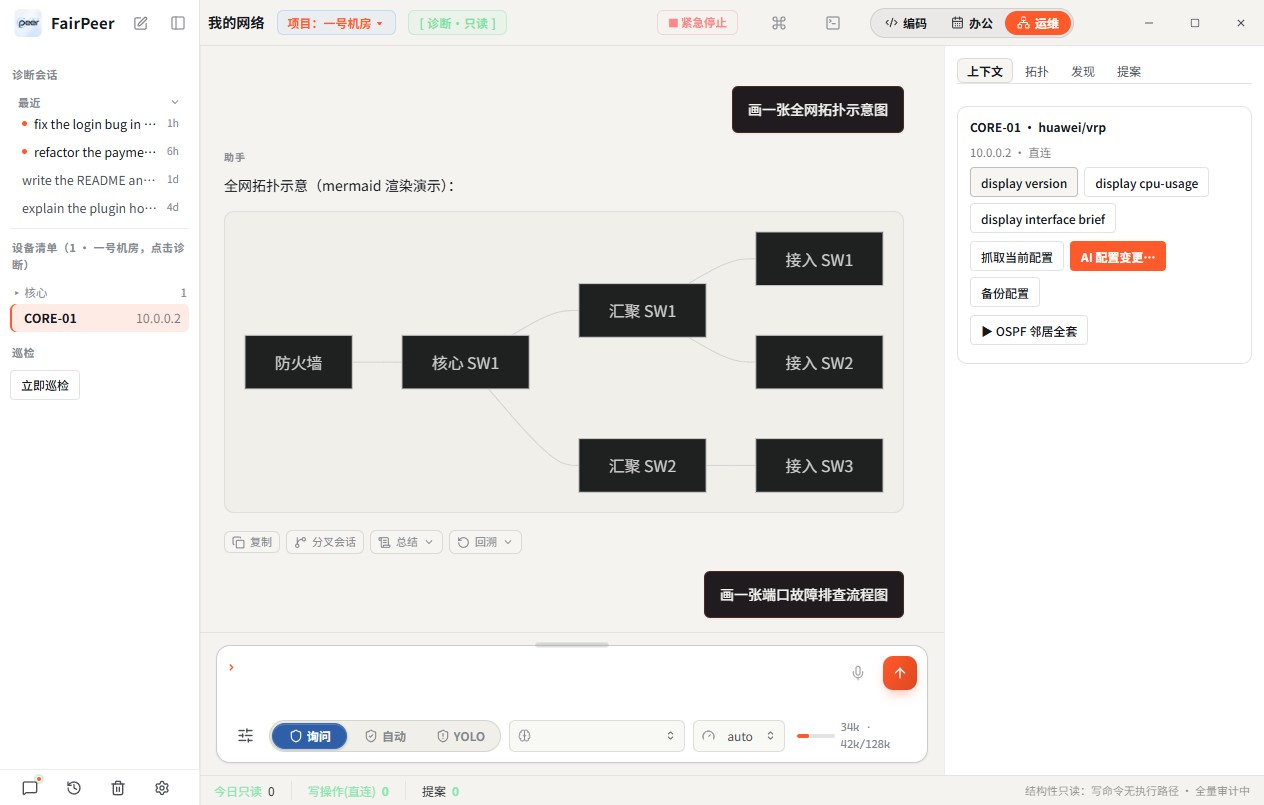
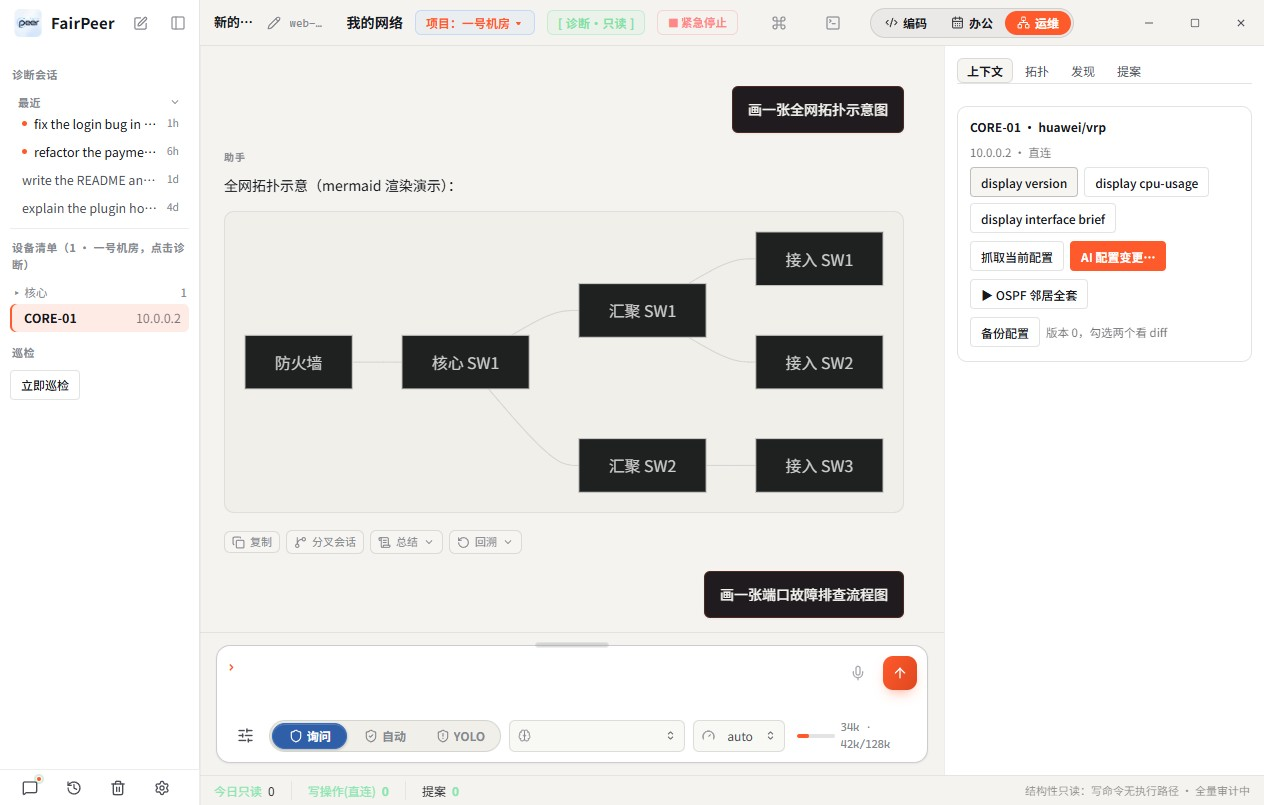
fix(netdev-ui): 备份后版本列表自刷新 + 探针补备份 diff/简报链路断言
- 探针抓到真 bug：点「备份配置」后 BackupHistory 不刷新（仅挂载时加载）
  → 备份按钮收进 BackupHistory 组件，运行后自 load()；顺带空态也显示按钮
- ndvshot: 备份流（备份→勾两版→对比→断言着色 diff 行）+ 简报流
  （重载→运维→生成→断言 .ndv__md 渲染）；dock 内按钮改 JS 派发点击
  （卡片变长后 chromedp 可见性等待会死等）；总预算 300s
- 证据：ndv-7（5 条着色 diff 行）/ndv-8（Markdown 简报）视觉核对通过

Changed region(s): [[0.1543, 0.0, 0.4011, 0.0621], [0.7714, 0.3416, 0.9256, 0.4348], [0.432, 0.0, 0.4937, 0.0621]]

diff --git a/desktop/frontend/src/layouts/NetDevLayout.tsx b/desktop/frontend/src/layouts/NetDevLayout.tsx
@@ -287,19 +287,6 @@ export function NetDevLayout({
     }
   }, [reload]);
 
-  // Backup vault: snapshot via sealed read (backupBusy gates the card button).
-  const [backupBusy, setBackupBusy] = useState(false);
-  const runBackup = useCallback(async (device: string) => {
-    setBackupBusy(true);
-    try {
-      const vers = await app.NetDevRunBackup(device);
-      if (vers.length === 0) alert("备份失败：命令被拒绝或设备错误（详情见审计）");
-    } catch (e) {
-      setErr(String(e));
-    } finally {
-      setBackupBusy(false);
-    }
-  }, []);
 
   // Active project scope (site switcher in the title bar): null = 全部.
   const [project, setProject] = useState<NetDevProjectScope>(getActiveProject());
@@ -484,12 +471,6 @@ export function NetDevLayout({
                     onClick={() => onInsertComposer(`帮我在 ${selectedDevice.name}（${selectedDevice.address}）上完成以下变更：\n变更内容：\n（请先用只读命令确认现状，再用 netdev_propose 起草提案——写命令必须包含对应的回滚命令，不会直接执行，需我在提案中心批准。）`)}
                   >AI 配置变更…</span>
                 )}
-                <span
-                  className="btn btn--secondary btn--small"
-                  role="button"
-                  title="经密封路径读取 running-config，脱敏后存为版本；可与任意历史版本 diff。"
-                  onClick={() => void runBackup(selectedDevice.name)}
-                >{backupBusy ? "备份中…" : "备份配置"}</span>
               </div>
               {(settings?.presets ?? []).filter(p => (p.vendors ?? []).length === 0 || (p.vendors ?? []).includes(selectedDevice.vendor)).length > 0 && (
                 <div className="ndv__quick-cmds">
@@ -675,6 +656,7 @@ function BackupHistory({ device }: { device: string }) {
   const [pick, setPick] = useState<string[]>([]);
   const [diff, setDiff] = useState("");
   const [err, setErr] = useState("");
+  const [busy, setBusy] = useState(false);
   const load = useCallback(async () => {
     try {
       setVersions(await app.NetDevBackups(device));
@@ -686,7 +668,18 @@ function BackupHistory({ device }: { device: string }) {
     }
   }, [device]);
   useEffect(() => { void load(); }, [load]);
-  if (versions.length === 0 && !err) return null;
+  const runBackup = useCallback(async () => {
+    setBusy(true);
+    try {
+      const vers = await app.NetDevRunBackup(device);
+      if (vers.length === 0) alert("备份失败：命令被拒绝或设备错误（详情见审计）");
+      await load();
+    } catch (e) {
+      setErr(String(e));
+    } finally {
+      setBusy(false);
+    }
+  }, [device, load]);
   const toggle = (id: string) => {
     setPick(p => p.includes(id) ? p.filter(x => x !== id) : [...p, id].slice(-2));
     setDiff("");
@@ -702,7 +695,15 @@ function BackupHistory({ device }: { device: string }) {
   };
   return (
     <div style={{ marginTop: 8 }}>
-      <div className="ndv__meta" style={{ marginBottom: 2 }}>备份版本（{versions.length}，勾选两个看 diff）</div>
+      <div style={{ display: "flex", gap: 6, alignItems: "center", marginBottom: 4 }}>
+        <span
+          className="btn btn--secondary btn--small"
+          role="button"
+          title="经密封路径读取 running-config，脱敏后存为版本；可与任意历史版本 diff。"
+          onClick={() => void runBackup()}
+        >{busy ? "备份中…" : "备份配置"}</span>
+        <span className="ndv__meta" style={{ marginBottom: 0 }}>版本 {versions.length}，勾选两个看 diff</span>
+      </div>
       {err && <div className="ndv__meta" style={{ color: "#ff8787" }}>{err}</div>}
       {versions.slice(0, 8).map(v => (
         <div key={v.id} className="ndv__backup-row" role="button" onClick={() => toggle(v.id)}>

diff --git a/cmd/ndvshot/main.go b/cmd/ndvshot/main.go
@@ -30,7 +30,7 @@ func main() {
 		fatal("mkdir: %v", err)
 	}
 
-	ctx, cancel := context.WithTimeout(context.Background(), 150*time.Second)
+	ctx, cancel := context.WithTimeout(context.Background(), 300*time.Second)
 	defer cancel()
 
 	handle, err := browserlaunch.Launch(ctx, browserlaunch.LaunchOptions{
@@ -230,6 +230,57 @@ func main() {
 		fatal("in-project device missing (rail: %.160q)", railNow)
 	}
 	fmt.Println("project-switch-filter: OK")
+
+	// Backup vault: back to 全部 + select ACC-01's card is overkill — the
+	// project switch left CORE-01 selected. Snapshot, pick two versions, diff.
+	var backupClick string
+	if err := chromedp.Run(bctx,
+		chromedp.Evaluate(`(function(){var els=[...document.querySelectorAll(".ndv__dock span[role=button], .ndv__dock button")]; var b=els.find(e=>e.textContent.indexOf("备份配置")>=0); if(!b) return "no-btn"; b.scrollIntoView({block:"center"}); b.click(); return "clicked";})()`, &backupClick),
+		chromedp.Sleep(900*time.Millisecond),
+		chromedp.Evaluate(`(function(){var rows=document.querySelectorAll(".ndv__backup-row"); if(rows.length<2) return "rows:"+rows.length; rows[0].click(); rows[1].click(); return "picked";})()`, new(string)),
+		chromedp.Sleep(300*time.Millisecond),
+		chromedp.Evaluate(`(function(){var els=[...document.querySelectorAll(".ndv__dock span[role=button], .ndv__dock button")]; var b=els.find(e=>e.textContent.indexOf("对比所选版本")>=0); if(!b) return "no-diff-btn"; b.scrollIntoView({block:"center"}); b.click(); return "clicked";})()`, new(string)),
+		chromedp.Sleep(500*time.Millisecond),
+	); err != nil {
+		fatal("backup flow (%s): %v", backupClick, err)
+	}
+	var diffLines int
+	if err := chromedp.Run(bctx,
+		chromedp.Evaluate(`document.querySelectorAll(".ndv__diff .ndv__dl-add, .ndv__diff .ndv__dl-del").length`, &diffLines),
+		chromedp.ActionFunc(func(ctx context.Context) error {
+			return saveShot(ctx, filepath.Join(*out, "ndv-7-backup-diff.png"))
+		}),
+	); err != nil || diffLines == 0 {
+		fatal("backup diff not rendered (lines=%d err=%v)", diffLines, err)
+	}
+	fmt.Printf("shot: ndv-7-backup-diff.png (colored diff lines: %d)\n", diffLines)
+	fmt.Println("backup-vault-diff: OK")
+
+	// Daily briefing: reload, re-enter 运维 — the context tab with NO device
+	// selected shows the briefing card; generate (mock) and capture.
+	if err := chromedp.Run(bctx,
+		chromedp.Reload(),
+		chromedp.WaitReady("body", chromedp.ByQuery),
+		chromedp.Sleep(2500*time.Millisecond),
+		chromedp.Click(`//button[contains(., "运维")]`, chromedp.BySearch),
+		chromedp.WaitReady(".ndv", chromedp.ByQuery),
+		chromedp.Sleep(1500*time.Millisecond),
+		chromedp.Evaluate(`(function(){var els=[...document.querySelectorAll(".ndv__dock span[role=button], .ndv__dock button")]; var b=els.find(e=>e.textContent.indexOf("生成今日简报")>=0); if(!b) return "no-btn"; b.scrollIntoView({block:"center"}); b.click(); return "clicked";})()`, new(string)),
+		chromedp.Sleep(900*time.Millisecond),
+	); err != nil {
+		fatal("briefing flow: %v", err)
+	}
+	var briefOK bool
+	if err := chromedp.Run(bctx,
+		chromedp.Evaluate(`(function(){return !!document.querySelector(".ndv__md") && document.querySelector(".ndv__md").textContent.indexOf("总体判断")>=0;})()`, &briefOK),
+		chromedp.ActionFunc(func(ctx context.Context) error {
+			return saveShot(ctx, filepath.Join(*out, "ndv-8-briefing.png"))
+		}),
+	); err != nil || !briefOK {
+		fatal("briefing card not rendered (ok=%v err=%v)", briefOK, err)
+	}
+	fmt.Println("shot: ndv-8-briefing.png")
+	fmt.Println("daily-briefing: OK")
 }
 
 // visibleMermaidScrollJS scrolls the last visible mermaid diagram into view,
